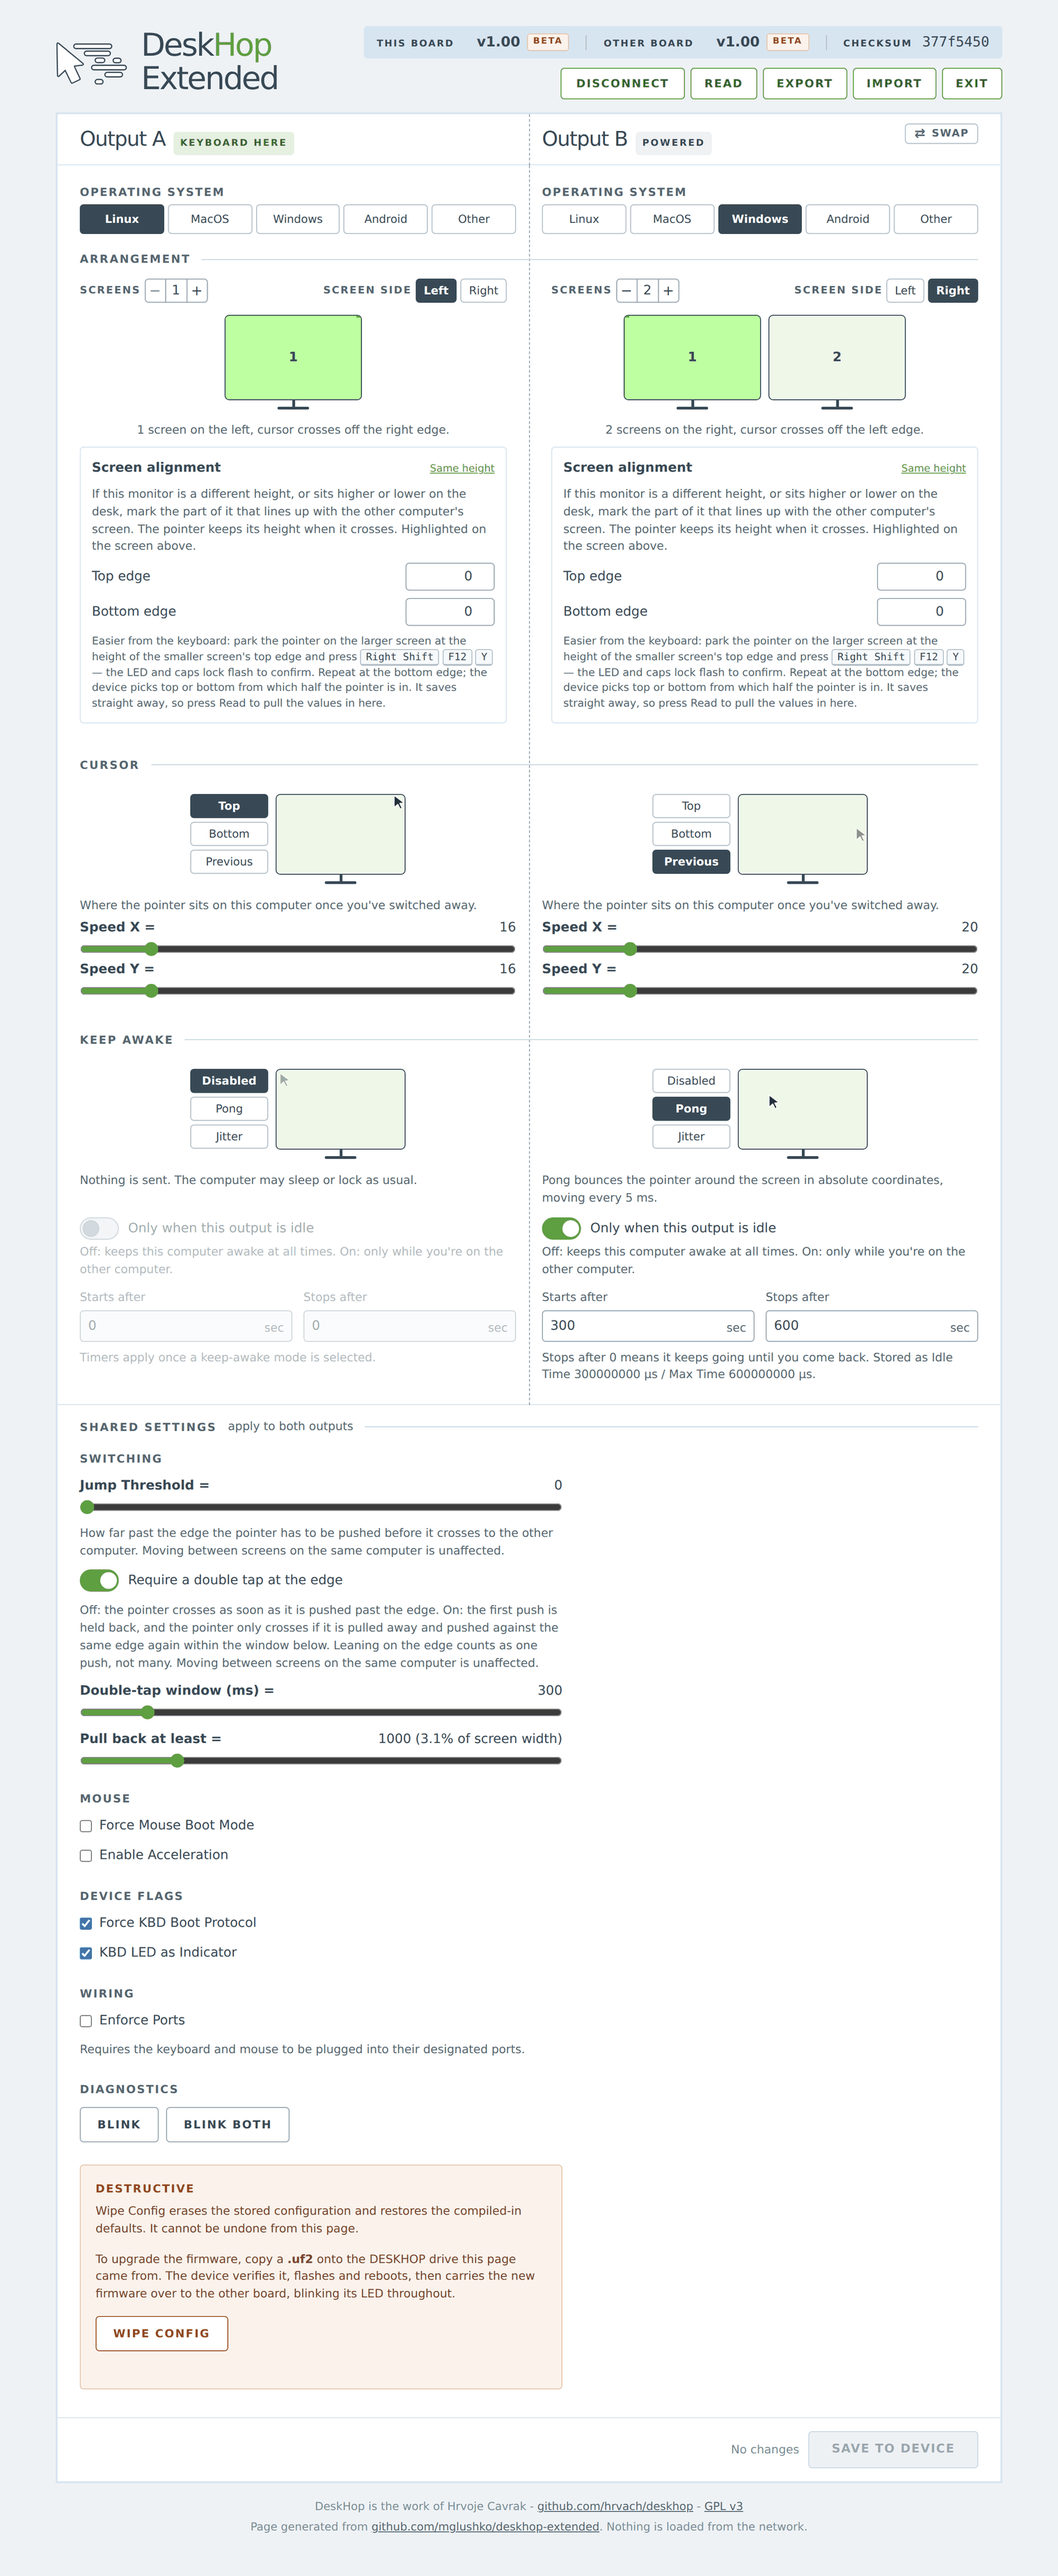
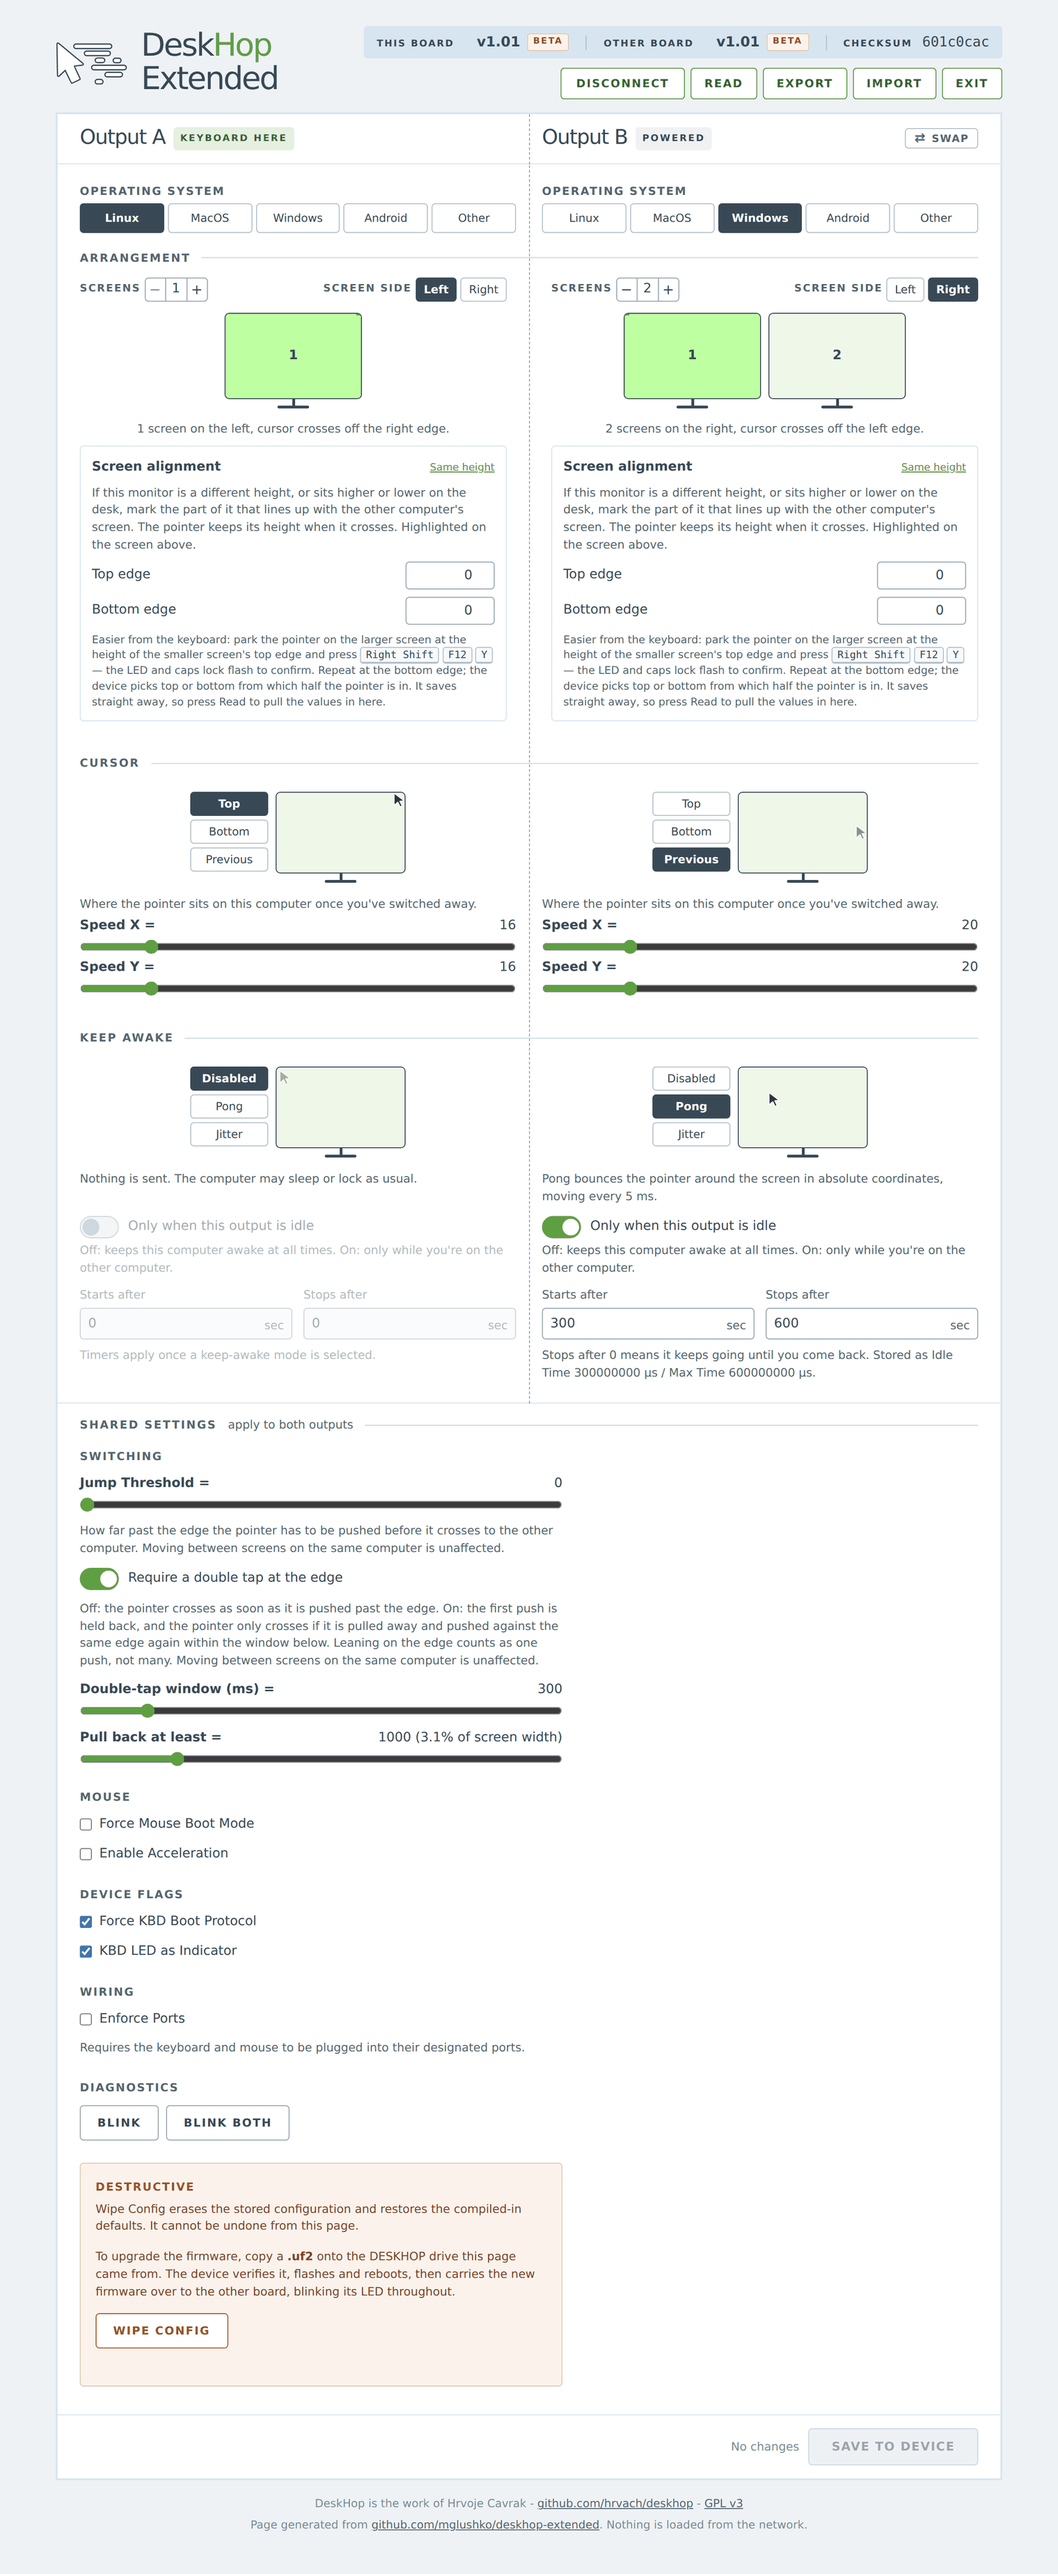
Center the output bar, stop selecting the export, hold the reset, v1.01
Pressing Export dropped the JSON into the panel and selected all of it, so
the next keystroke would have replaced what you came to copy. Only the
import box wants the caret now; an export is there to be read.

Output A/B, their chips and Swap all centre against the same line rather
than sitting on the version's text baseline or a fixed offset from the top
of the bar. The bar's padding is symmetric so the 50% the Swap button
centres on is the row's real middle - measured, the four boxes share a
midpoint exactly. The dashed column divider keeps its old reach.

tud_msc_write10_cb kicked the watchdog on every write, including the ones
that arrive after the final block has already asked for the reboot. The
host keeps writing after the image - FAT metadata, at least - and each of
those writes pushed the reset out by another WATCHDOG_TIMEOUT, so the one
path that resets after a uf2 drop had no bound on when it lands.
kick_watchdog_task already stands down once reboot_requested is set; this
now stands down with it. The reset-on-flash and the reset on Exit are the
same deferred watchdog reset, and this makes them behave the same way too.

Version goes to 1.01. Worth repeating from last time: the number the boards
exchange is major * 1000 + minor + 100, so 1.01 encodes to 1101 - the same
value an older v1.1 build reported. A board only pulls firmware the other
one reports as *higher*, so this still cannot arrive over the link from a
[…]

diff --git a/webconfig/config.htm b/webconfig/config.htm
@@ -1,1 +1,1 @@
[2 lines of base64/hex data omitted]

diff --git a/webconfig/config-unpacked.htm b/webconfig/config-unpacked.htm
@@ -167,10 +167,10 @@ input[type=range][disabled] { accent-color: var(--grey); cursor: default; }
 .rail { position: relative; }
 .rail:before { content: ''; position: absolute; left: 50%; top: 0; bottom: 0; width: 0; border-left: 1px dashed var(--rail); }
 
-.obar { position: sticky; top: 0; z-index: 5; background: #fff; border-bottom: 1px solid var(--chip); margin: 0 -24px 20px; padding: 14px 24px 10px; }
+.obar { position: sticky; top: 0; z-index: 5; background: #fff; border-bottom: 1px solid var(--chip); margin: 0 -24px 20px; padding: 12px 24px; }
 .obar .duo { position: relative; }
-.obar .duo:before { content: ''; position: absolute; left: 50%; top: -14px; bottom: -11px; width: 0; border-left: 1px dashed var(--rail); }
-.out { min-width: 0; display: flex; align-items: baseline; gap: 9px; }
+.obar .duo:before { content: ''; position: absolute; left: 50%; top: -12px; bottom: -13px; width: 0; border-left: 1px dashed var(--rail); }
+.out { min-width: 0; display: flex; align-items: center; gap: 9px; }
 .out-n { font-size: 22px; font-weight: 300; line-height: 1.3; letter-spacing: -.05rem; }
 .out-chip { font-size: 10px; font-weight: 700; letter-spacing: .1rem; text-transform: uppercase; padding: 5px 7px; border-radius: 4px; background: rgba(56, 73, 85, .08); }
 .out-chip.on { color: var(--accent-dk); background: rgba(94, 159, 65, .16); }
@@ -186,7 +186,7 @@ input[type=range][disabled] { accent-color: var(--grey); cursor: default; }
 .swapped .duo > *:last-child  { order: 1; }
 
 .swap {
-  position: absolute; right: 24px; top: 10px; z-index: 6;
+  position: absolute; right: 24px; top: 50%; transform: translateY(-50%); z-index: 6;
   display: flex; align-items: center; gap: 6px;
   padding: 3px 9px; border: 1px solid var(--bd-soft); border-radius: 4px;
   background: #fff; color: var(--muted);
@@ -1222,9 +1222,9 @@ function showBackup(title, message, text, editable) {
   box.readOnly = !editable;
   el('backup').hidden = false;
 
-  box.focus();
-  if (!editable)
-    box.select();
+  /* Only the import box wants the caret; an export is there to be read, not replaced. */
+  if (editable)
+    box.focus();
 }
 
 function closeBackupHandler() {

diff --git a/webconfig/templates/style.css b/webconfig/templates/style.css
@@ -136,10 +136,10 @@ input[type=range][disabled] { accent-color: var(--grey); cursor: default; }
 .rail { position: relative; }
 .rail:before { content: ''; position: absolute; left: 50%; top: 0; bottom: 0; width: 0; border-left: 1px dashed var(--rail); }
 
-.obar { position: sticky; top: 0; z-index: 5; background: #fff; border-bottom: 1px solid var(--chip); margin: 0 -24px 20px; padding: 14px 24px 10px; }
+.obar { position: sticky; top: 0; z-index: 5; background: #fff; border-bottom: 1px solid var(--chip); margin: 0 -24px 20px; padding: 12px 24px; }
 .obar .duo { position: relative; }
-.obar .duo:before { content: ''; position: absolute; left: 50%; top: -14px; bottom: -11px; width: 0; border-left: 1px dashed var(--rail); }
-.out { min-width: 0; display: flex; align-items: baseline; gap: 9px; }
+.obar .duo:before { content: ''; position: absolute; left: 50%; top: -12px; bottom: -13px; width: 0; border-left: 1px dashed var(--rail); }
+.out { min-width: 0; display: flex; align-items: center; gap: 9px; }
 .out-n { font-size: 22px; font-weight: 300; line-height: 1.3; letter-spacing: -.05rem; }
 .out-chip { font-size: 10px; font-weight: 700; letter-spacing: .1rem; text-transform: uppercase; padding: 5px 7px; border-radius: 4px; background: rgba(56, 73, 85, .08); }
 .out-chip.on { color: var(--accent-dk); background: rgba(94, 159, 65, .16); }
@@ -155,7 +155,7 @@ input[type=range][disabled] { accent-color: var(--grey); cursor: default; }
 .swapped .duo > *:last-child  { order: 1; }
 
 .swap {
-  position: absolute; right: 24px; top: 10px; z-index: 6;
+  position: absolute; right: 24px; top: 50%; transform: translateY(-50%); z-index: 6;
   display: flex; align-items: center; gap: 6px;
   padding: 3px 9px; border: 1px solid var(--bd-soft); border-radius: 4px;
   background: #fff; color: var(--muted);

diff --git a/webconfig/templates/script.js b/webconfig/templates/script.js
@@ -308,9 +308,9 @@ function showBackup(title, message, text, editable) {
   box.readOnly = !editable;
   el('backup').hidden = false;
 
-  box.focus();
-  if (!editable)
-    box.select();
+  /* Only the import box wants the caret; an export is there to be read, not replaced. */
+  if (editable)
+    box.focus();
 }
 
 function closeBackupHandler() {

diff --git a/src/ramdisk.c b/src/ramdisk.c
@@ -101,7 +101,14 @@ int32_t tud_msc_write10_cb(uint8_t lun, uint32_t lba, uint32_t offset, uint8_t *
 
     /* Provide some visual indication that fw is being uploaded */
     toggle_led();
-    watchdog_update();
+
+    /* Kicking here is what keeps the watchdog quiet while the host streams pages in, but
+       once the reboot is requested it would work against it: the host keeps writing (FAT
+       metadata after the image, for one), and every write would push the reset out by
+       another WATCHDOG_TIMEOUT. kick_watchdog_task already stands down for the same
+       reason, so stand down with it and let the reset land. */
+    if (!global_state.reboot_requested)
+        watchdog_update();
 
     return (int32_t)bufsize;
 }
